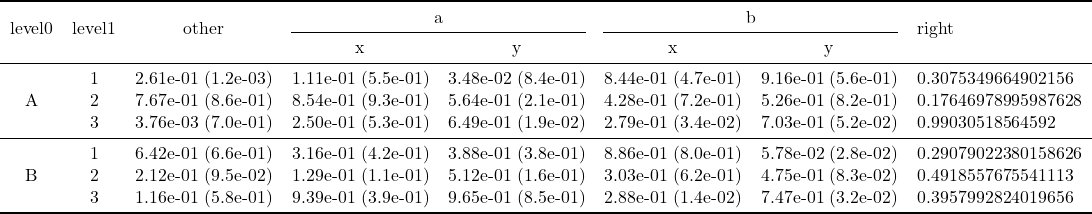
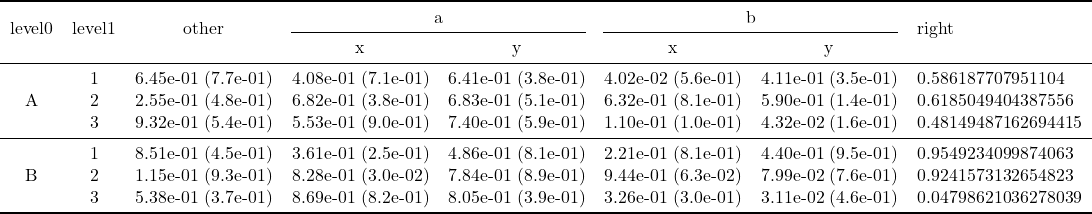
build based on 43f1c92

diff --git a/dev/index.html b/dev/index.html
@@ -1,2 +1,2 @@
 <!DOCTYPE html>
-<html lang="en"><head><meta charset="UTF-8"/><meta name="viewport" content="width=device-width, initial-scale=1.0"/><title>LaTeXTables.jl Documentation · LaTeXTables.jl Documentation</title><script data-outdated-warner src="assets/warner.js"></script><link href="https://cdnjs.cloudflare.com/ajax/libs/lato-font/3.0.0/css/lato-font.min.css" rel="stylesheet" type="text/css"/><link href="https://cdnjs.cloudflare.com/ajax/libs/juliamono/0.045/juliamono.min.css" rel="stylesheet" type="text/css"/><link href="https://cdnjs.cloudflare.com/ajax/libs/font-awesome/5.15.4/css/fontawesome.min.css" rel="stylesheet" type="text/css"/><link href="https://cdnjs.cloudflare.com/ajax/libs/font-awesome/5.15.4/css/solid.min.css" rel="stylesheet" type="text/css"/><link href="https://cdnjs.cloudflare.com/ajax/libs/font-awesome/5.15.4/css/brands.min.css" rel="stylesheet" type="text/css"/><link href="https://cdnjs.cloudflare.com/ajax/libs/KaTeX/0.13.24/katex.min.css" rel="stylesheet" type="text/css"/><script>documenterBaseURL="."</script><script src="https://cdnjs.cloudflare.com/ajax/libs/require.js/2.3.6/require.min.js" data-main="assets/documenter.js"></script><script src="siteinfo.js"></script><script src="../versions.js"></script><link class="docs-theme-link" rel="stylesheet" type="text/css" href="assets/themes/documenter-dark.css" data-theme-name="documenter-dark" data-theme-primary-dark/><link class="docs-theme-link" rel="stylesheet" type="text/css" href="assets/themes/documenter-light.css" data-theme-name="documenter-light" data-theme-primary/><script src="assets/themeswap.js"></script></head><body><div id="documenter"><nav class="docs-sidebar"><div class="docs-package-name"><span class="docs-autofit"><a href>LaTeXTables.jl Documentation</a></span></div><form class="docs-search" action="search/"><input class="docs-search-query" id="documenter-search-query" name="q" type="text" placeholder="Search docs"/></form><ul class="docs-menu"><li class="is-active"><a class="tocitem" href>LaTeXTables.jl Documentation</a><ul class="internal"><li><a class="tocitem" href="#Related-Packages"><span>Related Packages</span></a></li></ul></li><li><a class="tocitem" href="api/">API</a></li><li><a class="tocitem" href="example/">Examples</a></li></ul><div class="docs-version-selector field has-addons"><div class="control"><span class="docs-label button is-static is-size-7">Version</span></div><div class="docs-selector control is-expanded"><div class="select is-fullwidth is-size-7"><select id="documenter-version-selector"></select></div></div></div></nav><div class="docs-main"><header class="docs-navbar"><nav class="breadcrumb"><ul class="is-hidden-mobile"><li class="is-active"><a href>LaTeXTables.jl Documentation</a></li></ul><ul class="is-hidden-tablet"><li class="is-active"><a href>LaTeXTables.jl Documentation</a></li></ul></nav><div class="docs-right"><a class="docs-edit-link" href="https://github.com/szcf-weiya/LaTeXTables.jl/blob/master/docs/src/index.md" title="Edit on GitHub"><span class="docs-icon fab"></span><span class="docs-label is-hidden-touch">Edit on GitHub</span></a><a class="docs-settings-button fas fa-cog" id="documenter-settings-button" href="#" title="Settings"></a><a class="docs-sidebar-button fa fa-bars is-hidden-desktop" id="documenter-sidebar-button" href="#"></a></div></header><article class="content" id="documenter-page"><h1 id="LaTeXTables.jl-Documentation"><a class="docs-heading-anchor" href="#LaTeXTables.jl-Documentation">LaTeXTables.jl Documentation</a><a id="LaTeXTables.jl-Documentation-1"></a><a class="docs-heading-anchor-permalink" href="#LaTeXTables.jl-Documentation" title="Permalink"></a></h1><p>LaTeXTables.jl is a Julia package that coverts (complex) tables into LaTeX code.</p><h2 id="Related-Packages"><a class="docs-heading-anchor" href="#Related-Packages">Related Packages</a><a id="Related-Packages-1"></a><a class="docs-heading-anchor-permalink" href="#Related-Packages" title="Permalink"></a></h2><ul><li><a href="https://github.com/scheinerman/LatexPrint.jl">https://github.com/scheinerman/LatexPrint.jl</a>: only support basic data structure, such as 1d or 2d arrays</li><li><a href="https://github.com/ronisbr/PrettyTables.jl">https://github.com/ronisbr/PrettyTables.jl</a>: only support simple tables, i.e., one level row and one level column</li></ul></article><nav class="docs-footer"><a class="docs-footer-nextpage" href="api/">API »</a><div class="flexbox-break"></div><p class="footer-message">Powered by <a href="https://github.com/JuliaDocs/Documenter.jl">Documenter.jl</a> and the <a href="https://julialang.org/">Julia Programming Language</a>.</p></nav></div><div class="modal" id="documenter-settings"><div class="modal-background"></div><div class="modal-card"><header class="modal-card-head"><p class="modal-card-title">Settings</p><button class="delete"></button></header><section class="modal-card-body"><p><label class="label">Theme</label><div class="select"><select id="documenter-themepicker"><option value="documenter-light">documenter-light</option><option value="documenter-dark">documenter-dark</option></select></div></p><hr/><p>This document was generated with <a href="https://github.com/JuliaDocs/Documenter.jl">Documenter.jl</a> version 0.27.23 on <span class="colophon-date" title="Tuesday 15 November 2022 17:12">Tuesday 15 November 2022</span>. Using Julia version 1.7.3.</p></section><footer class="modal-card-foot"></footer></div></div></div></body></html>
+<html lang="en"><head><meta charset="UTF-8"/><meta name="viewport" content="width=device-width, initial-scale=1.0"/><title>LaTeXTables.jl Documentation · LaTeXTables.jl Documentation</title><script data-outdated-warner src="assets/warner.js"></script><link href="https://cdnjs.cloudflare.com/ajax/libs/lato-font/3.0.0/css/lato-font.min.css" rel="stylesheet" type="text/css"/><link href="https://cdnjs.cloudflare.com/ajax/libs/juliamono/0.045/juliamono.min.css" rel="stylesheet" type="text/css"/><link href="https://cdnjs.cloudflare.com/ajax/libs/font-awesome/5.15.4/css/fontawesome.min.css" rel="stylesheet" type="text/css"/><link href="https://cdnjs.cloudflare.com/ajax/libs/font-awesome/5.15.4/css/solid.min.css" rel="stylesheet" type="text/css"/><link href="https://cdnjs.cloudflare.com/ajax/libs/font-awesome/5.15.4/css/brands.min.css" rel="stylesheet" type="text/css"/><link href="https://cdnjs.cloudflare.com/ajax/libs/KaTeX/0.13.24/katex.min.css" rel="stylesheet" type="text/css"/><script>documenterBaseURL="."</script><script src="https://cdnjs.cloudflare.com/ajax/libs/require.js/2.3.6/require.min.js" data-main="assets/documenter.js"></script><script src="siteinfo.js"></script><script src="../versions.js"></script><link class="docs-theme-link" rel="stylesheet" type="text/css" href="assets/themes/documenter-dark.css" data-theme-name="documenter-dark" data-theme-primary-dark/><link class="docs-theme-link" rel="stylesheet" type="text/css" href="assets/themes/documenter-light.css" data-theme-name="documenter-light" data-theme-primary/><script src="assets/themeswap.js"></script></head><body><div id="documenter"><nav class="docs-sidebar"><div class="docs-package-name"><span class="docs-autofit"><a href>LaTeXTables.jl Documentation</a></span></div><form class="docs-search" action="search/"><input class="docs-search-query" id="documenter-search-query" name="q" type="text" placeholder="Search docs"/></form><ul class="docs-menu"><li class="is-active"><a class="tocitem" href>LaTeXTables.jl Documentation</a><ul class="internal"><li><a class="tocitem" href="#Related-Packages"><span>Related Packages</span></a></li></ul></li><li><a class="tocitem" href="api/">API</a></li><li><a class="tocitem" href="example/">Examples</a></li></ul><div class="docs-version-selector field has-addons"><div class="control"><span class="docs-label button is-static is-size-7">Version</span></div><div class="docs-selector control is-expanded"><div class="select is-fullwidth is-size-7"><select id="documenter-version-selector"></select></div></div></div></nav><div class="docs-main"><header class="docs-navbar"><nav class="breadcrumb"><ul class="is-hidden-mobile"><li class="is-active"><a href>LaTeXTables.jl Documentation</a></li></ul><ul class="is-hidden-tablet"><li class="is-active"><a href>LaTeXTables.jl Documentation</a></li></ul></nav><div class="docs-right"><a class="docs-edit-link" href="https://github.com/szcf-weiya/LaTeXTables.jl/blob/master/docs/src/index.md" title="Edit on GitHub"><span class="docs-icon fab"></span><span class="docs-label is-hidden-touch">Edit on GitHub</span></a><a class="docs-settings-button fas fa-cog" id="documenter-settings-button" href="#" title="Settings"></a><a class="docs-sidebar-button fa fa-bars is-hidden-desktop" id="documenter-sidebar-button" href="#"></a></div></header><article class="content" id="documenter-page"><h1 id="LaTeXTables.jl-Documentation"><a class="docs-heading-anchor" href="#LaTeXTables.jl-Documentation">LaTeXTables.jl Documentation</a><a id="LaTeXTables.jl-Documentation-1"></a><a class="docs-heading-anchor-permalink" href="#LaTeXTables.jl-Documentation" title="Permalink"></a></h1><p>LaTeXTables.jl is a Julia package that coverts (complex) tables into LaTeX code.</p><h2 id="Related-Packages"><a class="docs-heading-anchor" href="#Related-Packages">Related Packages</a><a id="Related-Packages-1"></a><a class="docs-heading-anchor-permalink" href="#Related-Packages" title="Permalink"></a></h2><ul><li><a href="https://github.com/scheinerman/LatexPrint.jl">https://github.com/scheinerman/LatexPrint.jl</a>: only support basic data structure, such as 1d or 2d arrays</li><li><a href="https://github.com/ronisbr/PrettyTables.jl">https://github.com/ronisbr/PrettyTables.jl</a>: only support simple tables, i.e., one level row and one level column</li></ul></article><nav class="docs-footer"><a class="docs-footer-nextpage" href="api/">API »</a><div class="flexbox-break"></div><p class="footer-message">Powered by <a href="https://github.com/JuliaDocs/Documenter.jl">Documenter.jl</a> and the <a href="https://julialang.org/">Julia Programming Language</a>.</p></nav></div><div class="modal" id="documenter-settings"><div class="modal-background"></div><div class="modal-card"><header class="modal-card-head"><p class="modal-card-title">Settings</p><button class="delete"></button></header><section class="modal-card-body"><p><label class="label">Theme</label><div class="select"><select id="documenter-themepicker"><option value="documenter-light">documenter-light</option><option value="documenter-dark">documenter-dark</option></select></div></p><hr/><p>This document was generated with <a href="https://github.com/JuliaDocs/Documenter.jl">Documenter.jl</a> version 0.27.23 on <span class="colophon-date" title="Tuesday 15 November 2022 17:33">Tuesday 15 November 2022</span>. Using Julia version 1.7.3.</p></section><footer class="modal-card-foot"></footer></div></div></div></body></html>

diff --git a/dev/search/index.html b/dev/search/index.html
@@ -1,2 +1,2 @@
 <!DOCTYPE html>
-<html lang="en"><head><meta charset="UTF-8"/><meta name="viewport" content="width=device-width, initial-scale=1.0"/><title>Search · LaTeXTables.jl Documentation</title><script data-outdated-warner src="../assets/warner.js"></script><link href="https://cdnjs.cloudflare.com/ajax/libs/lato-font/3.0.0/css/lato-font.min.css" rel="stylesheet" type="text/css"/><link href="https://cdnjs.cloudflare.com/ajax/libs/juliamono/0.045/juliamono.min.css" rel="stylesheet" type="text/css"/><link href="https://cdnjs.cloudflare.com/ajax/libs/font-awesome/5.15.4/css/fontawesome.min.css" rel="stylesheet" type="text/css"/><link href="https://cdnjs.cloudflare.com/ajax/libs/font-awesome/5.15.4/css/solid.min.css" rel="stylesheet" type="text/css"/><link href="https://cdnjs.cloudflare.com/ajax/libs/font-awesome/5.15.4/css/brands.min.css" rel="stylesheet" type="text/css"/><link href="https://cdnjs.cloudflare.com/ajax/libs/KaTeX/0.13.24/katex.min.css" rel="stylesheet" type="text/css"/><script>documenterBaseURL=".."</script><script src="https://cdnjs.cloudflare.com/ajax/libs/require.js/2.3.6/require.min.js" data-main="../assets/documenter.js"></script><script src="../siteinfo.js"></script><script src="../../versions.js"></script><link class="docs-theme-link" rel="stylesheet" type="text/css" href="../assets/themes/documenter-dark.css" data-theme-name="documenter-dark" data-theme-primary-dark/><link class="docs-theme-link" rel="stylesheet" type="text/css" href="../assets/themes/documenter-light.css" data-theme-name="documenter-light" data-theme-primary/><script src="../assets/themeswap.js"></script></head><body><div id="documenter"><nav class="docs-sidebar"><div class="docs-package-name"><span class="docs-autofit"><a href="../">LaTeXTables.jl Documentation</a></span></div><form class="docs-search" action><input class="docs-search-query" id="documenter-search-query" name="q" type="text" placeholder="Search docs"/></form><ul class="docs-menu"><li><a class="tocitem" href="../">LaTeXTables.jl Documentation</a></li><li><a class="tocitem" href="../api/">API</a></li><li><a class="tocitem" href="../example/">Examples</a></li></ul><div class="docs-version-selector field has-addons"><div class="control"><span class="docs-label button is-static is-size-7">Version</span></div><div class="docs-selector control is-expanded"><div class="select is-fullwidth is-size-7"><select id="documenter-version-selector"></select></div></div></div></nav><div class="docs-main"><header class="docs-navbar"><nav class="breadcrumb"><ul class="is-hidden-mobile"><li class="is-active"><a href>Search</a></li></ul><ul class="is-hidden-tablet"><li class="is-active"><a href>Search</a></li></ul></nav><div class="docs-right"><a class="docs-settings-button fas fa-cog" id="documenter-settings-button" href="#" title="Settings"></a><a class="docs-sidebar-button fa fa-bars is-hidden-desktop" id="documenter-sidebar-button" href="#"></a></div></header><article><p id="documenter-search-info">Loading search...</p><ul id="documenter-search-results"></ul></article><nav class="docs-footer"><p class="footer-message">Powered by <a href="https://github.com/JuliaDocs/Documenter.jl">Documenter.jl</a> and the <a href="https://julialang.org/">Julia Programming Language</a>.</p></nav></div><div class="modal" id="documenter-settings"><div class="modal-background"></div><div class="modal-card"><header class="modal-card-head"><p class="modal-card-title">Settings</p><button class="delete"></button></header><section class="modal-card-body"><p><label class="label">Theme</label><div class="select"><select id="documenter-themepicker"><option value="documenter-light">documenter-light</option><option value="documenter-dark">documenter-dark</option></select></div></p><hr/><p>This document was generated with <a href="https://github.com/JuliaDocs/Documenter.jl">Documenter.jl</a> version 0.27.23 on <span class="colophon-date" title="Tuesday 15 November 2022 17:12">Tuesday 15 November 2022</span>. Using Julia version 1.7.3.</p></section><footer class="modal-card-foot"></footer></div></div></div></body><script src="../search_index.js"></script><script src="../assets/search.js"></script></html>
+<html lang="en"><head><meta charset="UTF-8"/><meta name="viewport" content="width=device-width, initial-scale=1.0"/><title>Search · LaTeXTables.jl Documentation</title><script data-outdated-warner src="../assets/warner.js"></script><link href="https://cdnjs.cloudflare.com/ajax/libs/lato-font/3.0.0/css/lato-font.min.css" rel="stylesheet" type="text/css"/><link href="https://cdnjs.cloudflare.com/ajax/libs/juliamono/0.045/juliamono.min.css" rel="stylesheet" type="text/css"/><link href="https://cdnjs.cloudflare.com/ajax/libs/font-awesome/5.15.4/css/fontawesome.min.css" rel="stylesheet" type="text/css"/><link href="https://cdnjs.cloudflare.com/ajax/libs/font-awesome/5.15.4/css/solid.min.css" rel="stylesheet" type="text/css"/><link href="https://cdnjs.cloudflare.com/ajax/libs/font-awesome/5.15.4/css/brands.min.css" rel="stylesheet" type="text/css"/><link href="https://cdnjs.cloudflare.com/ajax/libs/KaTeX/0.13.24/katex.min.css" rel="stylesheet" type="text/css"/><script>documenterBaseURL=".."</script><script src="https://cdnjs.cloudflare.com/ajax/libs/require.js/2.3.6/require.min.js" data-main="../assets/documenter.js"></script><script src="../siteinfo.js"></script><script src="../../versions.js"></script><link class="docs-theme-link" rel="stylesheet" type="text/css" href="../assets/themes/documenter-dark.css" data-theme-name="documenter-dark" data-theme-primary-dark/><link class="docs-theme-link" rel="stylesheet" type="text/css" href="../assets/themes/documenter-light.css" data-theme-name="documenter-light" data-theme-primary/><script src="../assets/themeswap.js"></script></head><body><div id="documenter"><nav class="docs-sidebar"><div class="docs-package-name"><span class="docs-autofit"><a href="../">LaTeXTables.jl Documentation</a></span></div><form class="docs-search" action><input class="docs-search-query" id="documenter-search-query" name="q" type="text" placeholder="Search docs"/></form><ul class="docs-menu"><li><a class="tocitem" href="../">LaTeXTables.jl Documentation</a></li><li><a class="tocitem" href="../api/">API</a></li><li><a class="tocitem" href="../example/">Examples</a></li></ul><div class="docs-version-selector field has-addons"><div class="control"><span class="docs-label button is-static is-size-7">Version</span></div><div class="docs-selector control is-expanded"><div class="select is-fullwidth is-size-7"><select id="documenter-version-selector"></select></div></div></div></nav><div class="docs-main"><header class="docs-navbar"><nav class="breadcrumb"><ul class="is-hidden-mobile"><li class="is-active"><a href>Search</a></li></ul><ul class="is-hidden-tablet"><li class="is-active"><a href>Search</a></li></ul></nav><div class="docs-right"><a class="docs-settings-button fas fa-cog" id="documenter-settings-button" href="#" title="Settings"></a><a class="docs-sidebar-button fa fa-bars is-hidden-desktop" id="documenter-sidebar-button" href="#"></a></div></header><article><p id="documenter-search-info">Loading search...</p><ul id="documenter-search-results"></ul></article><nav class="docs-footer"><p class="footer-message">Powered by <a href="https://github.com/JuliaDocs/Documenter.jl">Documenter.jl</a> and the <a href="https://julialang.org/">Julia Programming Language</a>.</p></nav></div><div class="modal" id="documenter-settings"><div class="modal-background"></div><div class="modal-card"><header class="modal-card-head"><p class="modal-card-title">Settings</p><button class="delete"></button></header><section class="modal-card-body"><p><label class="label">Theme</label><div class="select"><select id="documenter-themepicker"><option value="documenter-light">documenter-light</option><option value="documenter-dark">documenter-dark</option></select></div></p><hr/><p>This document was generated with <a href="https://github.com/JuliaDocs/Documenter.jl">Documenter.jl</a> version 0.27.23 on <span class="colophon-date" title="Tuesday 15 November 2022 17:33">Tuesday 15 November 2022</span>. Using Julia version 1.7.3.</p></section><footer class="modal-card-foot"></footer></div></div></div></body><script src="../search_index.js"></script><script src="../assets/search.js"></script></html>

diff --git a/dev/api/index.html b/dev/api/index.html
@@ -13,4 +13,4 @@ julia&gt; print2tex(μ, σ, [&quot;A&quot;, &quot;B&quot;], [&quot;a&quot;, &quo
 noc = 0
 14
 
-julia&gt; tex2png(&quot;ex1.tex&quot;)</code></pre></div><a class="docs-sourcelink" target="_blank" href="https://github.com/szcf-weiya/LaTeXTables.jl/blob/8206c7d5d2b85aef02d7b4e61b407860fa8eb16d/src/tab2tex.jl#L7-L33">source</a></section></article><article class="docstring"><header><a class="docstring-binding" id="LaTeXTables.tex2png" href="#LaTeXTables.tex2png"><code>LaTeXTables.tex2png</code></a> — <span class="docstring-category">Function</span></header><section><div><pre><code class="language-julia hljs">tex2png()</code></pre><p>Render a latex table source file into an image via https://quicklatex.com/js/quicklatex.js</p></div><a class="docs-sourcelink" target="_blank" href="https://github.com/szcf-weiya/LaTeXTables.jl/blob/8206c7d5d2b85aef02d7b4e61b407860fa8eb16d/src/render.jl#L2-L6">source</a></section></article></article><nav class="docs-footer"><a class="docs-footer-prevpage" href="../">« LaTeXTables.jl Documentation</a><a class="docs-footer-nextpage" href="../example/">Examples »</a><div class="flexbox-break"></div><p class="footer-message">Powered by <a href="https://github.com/JuliaDocs/Documenter.jl">Documenter.jl</a> and the <a href="https://julialang.org/">Julia Programming Language</a>.</p></nav></div><div class="modal" id="documenter-settings"><div class="modal-background"></div><div class="modal-card"><header class="modal-card-head"><p class="modal-card-title">Settings</p><button class="delete"></button></header><section class="modal-card-body"><p><label class="label">Theme</label><div class="select"><select id="documenter-themepicker"><option value="documenter-light">documenter-light</option><option value="documenter-dark">documenter-dark</option></select></div></p><hr/><p>This document was generated with <a href="https://github.com/JuliaDocs/Documenter.jl">Documenter.jl</a> version 0.27.23 on <span class="colophon-date" title="Tuesday 15 November 2022 17:12">Tuesday 15 November 2022</span>. Using Julia version 1.7.3.</p></section><footer class="modal-card-foot"></footer></div></div></div></body></html>
+julia&gt; tex2png(&quot;ex1.tex&quot;)</code></pre></div><a class="docs-sourcelink" target="_blank" href="https://github.com/szcf-weiya/LaTeXTables.jl/blob/43f1c92af5bedad8456866ead7d7b9ca06e3970a/src/tab2tex.jl#L7-L33">source</a></section></article><article class="docstring"><header><a class="docstring-binding" id="LaTeXTables.tex2png" href="#LaTeXTables.tex2png"><code>LaTeXTables.tex2png</code></a> — <span class="docstring-category">Function</span></header><section><div><pre><code class="language-julia hljs">tex2png()</code></pre><p>Render a latex table source file into an image via https://quicklatex.com/js/quicklatex.js</p></div><a class="docs-sourcelink" target="_blank" href="https://github.com/szcf-weiya/LaTeXTables.jl/blob/43f1c92af5bedad8456866ead7d7b9ca06e3970a/src/render.jl#L2-L6">source</a></section></article></article><nav class="docs-footer"><a class="docs-footer-prevpage" href="../">« LaTeXTables.jl Documentation</a><a class="docs-footer-nextpage" href="../example/">Examples »</a><div class="flexbox-break"></div><p class="footer-message">Powered by <a href="https://github.com/JuliaDocs/Documenter.jl">Documenter.jl</a> and the <a href="https://julialang.org/">Julia Programming Language</a>.</p></nav></div><div class="modal" id="documenter-settings"><div class="modal-background"></div><div class="modal-card"><header class="modal-card-head"><p class="modal-card-title">Settings</p><button class="delete"></button></header><section class="modal-card-body"><p><label class="label">Theme</label><div class="select"><select id="documenter-themepicker"><option value="documenter-light">documenter-light</option><option value="documenter-dark">documenter-dark</option></select></div></p><hr/><p>This document was generated with <a href="https://github.com/JuliaDocs/Documenter.jl">Documenter.jl</a> version 0.27.23 on <span class="colophon-date" title="Tuesday 15 November 2022 17:33">Tuesday 15 November 2022</span>. Using Julia version 1.7.3.</p></section><footer class="modal-card-foot"></footer></div></div></div></body></html>

diff --git a/dev/example/index.html b/dev/example/index.html
@@ -29,4 +29,4 @@ others_σ = [rand(3, 1), rand(3, 1)]
 print2tex(μ, σ, [&quot;A&quot;, &quot;B&quot;], [&quot;a&quot;, &quot;b&quot;], [&quot;1&quot;,&quot;2&quot;,&quot;3&quot;], [&quot;x&quot;, &quot;y&quot;], file = &quot;ex2.tex&quot;, other_cols = others, other_col_names = [&quot;other&quot;], other_cols_σ = others_σ)
 tex2png(&quot;ex2.tex&quot;)</code></pre><pre class="documenter-example-output"><code class="nohighlight hljs ansi">&quot;ex2.png&quot;</code></pre><p><img src="../ex2.png" alt/></p><h3 id="Add-columns-on-the-right"><a class="docs-heading-anchor" href="#Add-columns-on-the-right">Add columns on the right</a><a id="Add-columns-on-the-right-1"></a><a class="docs-heading-anchor-permalink" href="#Add-columns-on-the-right" title="Permalink"></a></h3><pre><code class="language-julia hljs">right = [[rand(3), rand(3)]]
 print2tex(μ, σ, [&quot;A&quot;, &quot;B&quot;], [&quot;a&quot;, &quot;b&quot;], [&quot;1&quot;,&quot;2&quot;,&quot;3&quot;], [&quot;x&quot;, &quot;y&quot;], file = &quot;ex3.tex&quot;, other_cols = others, other_col_names = [&quot;other&quot;], other_cols_σ = others_σ, right_cols = right, right_col_names = [&quot;right&quot;])
-tex2png(&quot;ex3.tex&quot;)</code></pre><pre class="documenter-example-output"><code class="nohighlight hljs ansi">&quot;ex3.png&quot;</code></pre><p><img src="../ex3.png" alt/></p></article><nav class="docs-footer"><a class="docs-footer-prevpage" href="../api/">« API</a><div class="flexbox-break"></div><p class="footer-message">Powered by <a href="https://github.com/JuliaDocs/Documenter.jl">Documenter.jl</a> and the <a href="https://julialang.org/">Julia Programming Language</a>.</p></nav></div><div class="modal" id="documenter-settings"><div class="modal-background"></div><div class="modal-card"><header class="modal-card-head"><p class="modal-card-title">Settings</p><button class="delete"></button></header><section class="modal-card-body"><p><label class="label">Theme</label><div class="select"><select id="documenter-themepicker"><option value="documenter-light">documenter-light</option><option value="documenter-dark">documenter-dark</option></select></div></p><hr/><p>This document was generated with <a href="https://github.com/JuliaDocs/Documenter.jl">Documenter.jl</a> version 0.27.23 on <span class="colophon-date" title="Tuesday 15 November 2022 17:12">Tuesday 15 November 2022</span>. Using Julia version 1.7.3.</p></section><footer class="modal-card-foot"></footer></div></div></div></body></html>
+tex2png(&quot;ex3.tex&quot;)</code></pre><pre class="documenter-example-output"><code class="nohighlight hljs ansi">&quot;ex3.png&quot;</code></pre><p><img src="../ex3.png" alt/></p></article><nav class="docs-footer"><a class="docs-footer-prevpage" href="../api/">« API</a><div class="flexbox-break"></div><p class="footer-message">Powered by <a href="https://github.com/JuliaDocs/Documenter.jl">Documenter.jl</a> and the <a href="https://julialang.org/">Julia Programming Language</a>.</p></nav></div><div class="modal" id="documenter-settings"><div class="modal-background"></div><div class="modal-card"><header class="modal-card-head"><p class="modal-card-title">Settings</p><button class="delete"></button></header><section class="modal-card-body"><p><label class="label">Theme</label><div class="select"><select id="documenter-themepicker"><option value="documenter-light">documenter-light</option><option value="documenter-dark">documenter-dark</option></select></div></p><hr/><p>This document was generated with <a href="https://github.com/JuliaDocs/Documenter.jl">Documenter.jl</a> version 0.27.23 on <span class="colophon-date" title="Tuesday 15 November 2022 17:33">Tuesday 15 November 2022</span>. Using Julia version 1.7.3.</p></section><footer class="modal-card-foot"></footer></div></div></div></body></html>

diff --git a/dev/ex3.tex b/dev/ex3.tex
@@ -5,12 +5,12 @@
 \cmidrule(lr){6-7}
 &&&x&y&x&y\tabularnewline
 \midrule
-\multirow{3}{*}{A}&1& 2.61e-01 (1.2e-03)& 1.11e-01 (5.5e-01)& 3.48e-02 (8.4e-01)& 8.44e-01 (4.7e-01)& 9.16e-01 (5.6e-01)& 0.3075349664902156\tabularnewline
-&2& 7.67e-01 (8.6e-01)& 8.54e-01 (9.3e-01)& 5.64e-01 (2.1e-01)& 4.28e-01 (7.2e-01)& 5.26e-01 (8.2e-01)& 0.17646978995987628\tabularnewline
-&3& 3.76e-03 (7.0e-01)& 2.50e-01 (5.3e-01)& 6.49e-01 (1.9e-02)& 2.79e-01 (3.4e-02)& 7.03e-01 (5.2e-02)& 0.99030518564592\tabularnewline
+\multirow{3}{*}{A}&1& 6.45e-01 (7.7e-01)& 4.08e-01 (7.1e-01)& 6.41e-01 (3.8e-01)& 4.02e-02 (5.6e-01)& 4.11e-01 (3.5e-01)& 0.586187707951104\tabularnewline
+&2& 2.55e-01 (4.8e-01)& 6.82e-01 (3.8e-01)& 6.83e-01 (5.1e-01)& 6.32e-01 (8.1e-01)& 5.90e-01 (1.4e-01)& 0.6185049404387556\tabularnewline
+&3& 9.32e-01 (5.4e-01)& 5.53e-01 (9.0e-01)& 7.40e-01 (5.9e-01)& 1.10e-01 (1.0e-01)& 4.32e-02 (1.6e-01)& 0.48149487162694415\tabularnewline
 \midrule
-\multirow{3}{*}{B}&1& 6.42e-01 (6.6e-01)& 3.16e-01 (4.2e-01)& 3.88e-01 (3.8e-01)& 8.86e-01 (8.0e-01)& 5.78e-02 (2.8e-02)& 0.29079022380158626\tabularnewline
-&2& 2.12e-01 (9.5e-02)& 1.29e-01 (1.1e-01)& 5.12e-01 (1.6e-01)& 3.03e-01 (6.2e-01)& 4.75e-01 (8.3e-02)& 0.4918557675541113\tabularnewline
-&3& 1.16e-01 (5.8e-01)& 9.39e-01 (3.9e-01)& 9.65e-01 (8.5e-01)& 2.88e-01 (1.4e-02)& 7.47e-01 (3.2e-02)& 0.3957992824019656\tabularnewline
+\multirow{3}{*}{B}&1& 8.51e-01 (4.5e-01)& 3.61e-01 (2.5e-01)& 4.86e-01 (8.1e-01)& 2.21e-01 (8.1e-01)& 4.40e-01 (9.5e-01)& 0.9549234099874063\tabularnewline
+&2& 1.15e-01 (9.3e-01)& 8.28e-01 (3.0e-02)& 7.84e-01 (8.9e-01)& 9.44e-01 (6.3e-02)& 7.99e-02 (7.6e-01)& 0.9241573132654823\tabularnewline
+&3& 5.38e-01 (3.7e-01)& 8.69e-01 (8.2e-01)& 8.05e-01 (3.9e-01)& 3.26e-01 (3.0e-01)& 3.11e-02 (4.6e-01)& 0.04798621036278039\tabularnewline
 \bottomrule
 \end{tabular}

diff --git a/dev/ex2.tex b/dev/ex2.tex
@@ -5,12 +5,12 @@
 \cmidrule(lr){6-7}
 &&&x&y&x&y\tabularnewline
 \midrule
-\multirow{3}{*}{A}&1& 2.61e-01 (1.2e-03)& 1.11e-01 (5.5e-01)& 3.48e-02 (8.4e-01)& 8.44e-01 (4.7e-01)& 9.16e-01 (5.6e-01)\tabularnewline
-&2& 7.67e-01 (8.6e-01)& 8.54e-01 (9.3e-01)& 5.64e-01 (2.1e-01)& 4.28e-01 (7.2e-01)& 5.26e-01 (8.2e-01)\tabularnewline
-&3& 3.76e-03 (7.0e-01)& 2.50e-01 (5.3e-01)& 6.49e-01 (1.9e-02)& 2.79e-01 (3.4e-02)& 7.03e-01 (5.2e-02)\tabularnewline
+\multirow{3}{*}{A}&1& 6.45e-01 (7.7e-01)& 4.08e-01 (7.1e-01)& 6.41e-01 (3.8e-01)& 4.02e-02 (5.6e-01)& 4.11e-01 (3.5e-01)\tabularnewline
+&2& 2.55e-01 (4.8e-01)& 6.82e-01 (3.8e-01)& 6.83e-01 (5.1e-01)& 6.32e-01 (8.1e-01)& 5.90e-01 (1.4e-01)\tabularnewline
+&3& 9.32e-01 (5.4e-01)& 5.53e-01 (9.0e-01)& 7.40e-01 (5.9e-01)& 1.10e-01 (1.0e-01)& 4.32e-02 (1.6e-01)\tabularnewline
 \midrule
-\multirow{3}{*}{B}&1& 6.42e-01 (6.6e-01)& 3.16e-01 (4.2e-01)& 3.88e-01 (3.8e-01)& 8.86e-01 (8.0e-01)& 5.78e-02 (2.8e-02)\tabularnewline
-&2& 2.12e-01 (9.5e-02)& 1.29e-01 (1.1e-01)& 5.12e-01 (1.6e-01)& 3.03e-01 (6.2e-01)& 4.75e-01 (8.3e-02)\tabularnewline
-&3& 1.16e-01 (5.8e-01)& 9.39e-01 (3.9e-01)& 9.65e-01 (8.5e-01)& 2.88e-01 (1.4e-02)& 7.47e-01 (3.2e-02)\tabularnewline
+\multirow{3}{*}{B}&1& 8.51e-01 (4.5e-01)& 3.61e-01 (2.5e-01)& 4.86e-01 (8.1e-01)& 2.21e-01 (8.1e-01)& 4.40e-01 (9.5e-01)\tabularnewline
+&2& 1.15e-01 (9.3e-01)& 8.28e-01 (3.0e-02)& 7.84e-01 (8.9e-01)& 9.44e-01 (6.3e-02)& 7.99e-02 (7.6e-01)\tabularnewline
+&3& 5.38e-01 (3.7e-01)& 8.69e-01 (8.2e-01)& 8.05e-01 (3.9e-01)& 3.26e-01 (3.0e-01)& 3.11e-02 (4.6e-01)\tabularnewline
 \bottomrule
 \end{tabular}

diff --git a/dev/ex1.tex b/dev/ex1.tex
@@ -5,12 +5,12 @@
 \cmidrule(lr){5-6}
 &&x&y&x&y\tabularnewline
 \midrule
-\multirow{3}{*}{A}&1& 1.11e-01 (5.5e-01)& 3.48e-02 (8.4e-01)& 8.44e-01 (4.7e-01)& 9.16e-01 (5.6e-01)\tabularnewline
-&2& 8.54e-01 (9.3e-01)& 5.64e-01 (2.1e-01)& 4.28e-01 (7.2e-01)& 5.26e-01 (8.2e-01)\tabularnewline
-&3& 2.50e-01 (5.3e-01)& 6.49e-01 (1.9e-02)& 2.79e-01 (3.4e-02)& 7.03e-01 (5.2e-02)\tabularnewline
+\multirow{3}{*}{A}&1& 4.08e-01 (7.1e-01)& 6.41e-01 (3.8e-01)& 4.02e-02 (5.6e-01)& 4.11e-01 (3.5e-01)\tabularnewline
+&2& 6.82e-01 (3.8e-01)& 6.83e-01 (5.1e-01)& 6.32e-01 (8.1e-01)& 5.90e-01 (1.4e-01)\tabularnewline
+&3& 5.53e-01 (9.0e-01)& 7.40e-01 (5.9e-01)& 1.10e-01 (1.0e-01)& 4.32e-02 (1.6e-01)\tabularnewline
 \midrule
-\multirow{3}{*}{B}&1& 3.16e-01 (4.2e-01)& 3.88e-01 (3.8e-01)& 8.86e-01 (8.0e-01)& 5.78e-02 (2.8e-02)\tabularnewline
-&2& 1.29e-01 (1.1e-01)& 5.12e-01 (1.6e-01)& 3.03e-01 (6.2e-01)& 4.75e-01 (8.3e-02)\tabularnewline
-&3& 9.39e-01 (3.9e-01)& 9.65e-01 (8.5e-01)& 2.88e-01 (1.4e-02)& 7.47e-01 (3.2e-02)\tabularnewline
+\multirow{3}{*}{B}&1& 3.61e-01 (2.5e-01)& 4.86e-01 (8.1e-01)& 2.21e-01 (8.1e-01)& 4.40e-01 (9.5e-01)\tabularnewline
+&2& 8.28e-01 (3.0e-02)& 7.84e-01 (8.9e-01)& 9.44e-01 (6.3e-02)& 7.99e-02 (7.6e-01)\tabularnewline
+&3& 8.69e-01 (8.2e-01)& 8.05e-01 (3.9e-01)& 3.26e-01 (3.0e-01)& 3.11e-02 (4.6e-01)\tabularnewline
 \bottomrule
 \end{tabular}

diff --git a/dev/row2col2.tex b/dev/row2col2.tex
@@ -6,10 +6,10 @@
 &&c1&c2&c3&c1&c2&c3\tabularnewline
 \midrule
 \midrule
-\multirow{2}{*}{r01}&r1&9.90e-01& (2.71e-02, -6.04e-01)& (9.60e-01, -3.05e-02)&9.90e-01& (2.71e-02, -6.04e-01)& (9.60e-01, -3.05e-02)\tabularnewline
-&r2&1.78e-01& (-1.60e+00, -1.99e-01)& (1.82e-01, 1.33e+00)&1.78e-01& (-1.60e+00, -1.99e-01)& (1.82e-01, 1.33e+00)\tabularnewline
+\multirow{2}{*}{r01}&r1&-8.68e-02& (2.17e+00, 3.65e-01)& (-4.91e-01, 6.12e-01)&-8.68e-02& (2.17e+00, 3.65e-01)& (-4.91e-01, 6.12e-01)\tabularnewline
+&r2&-6.53e-01& (4.44e-01, 6.76e-01)& (-2.42e-01, -5.04e-01)&-6.53e-01& (4.44e-01, 6.76e-01)& (-2.42e-01, -5.04e-01)\tabularnewline
 \midrule
-\multirow{2}{*}{r02}&r1&9.90e-01& (2.71e-02, -6.04e-01)& (9.60e-01, -3.05e-02)&9.90e-01& (2.71e-02, -6.04e-01)& (9.60e-01, -3.05e-02)\tabularnewline
-&r2&1.78e-01& (-1.60e+00, -1.99e-01)& (1.82e-01, 1.33e+00)&1.78e-01& (-1.60e+00, -1.99e-01)& (1.82e-01, 1.33e+00)\tabularnewline
+\multirow{2}{*}{r02}&r1&-8.68e-02& (2.17e+00, 3.65e-01)& (-4.91e-01, 6.12e-01)&-8.68e-02& (2.17e+00, 3.65e-01)& (-4.91e-01, 6.12e-01)\tabularnewline
+&r2&-6.53e-01& (4.44e-01, 6.76e-01)& (-2.42e-01, -5.04e-01)&-6.53e-01& (4.44e-01, 6.76e-01)& (-2.42e-01, -5.04e-01)\tabularnewline
 \bottomrule
 \end{tabular}

diff --git a/dev/ex02.tex b/dev/ex02.tex
@@ -2,12 +2,12 @@
 \toprule
 row&col1&col2&col3\tabularnewline
 \midrule
-A&-8.36e-01& (-3.06e-01, -4.22e-01)& (-1.43e+00, -1.89e+00)\tabularnewline
-B&2.10e+00& (7.73e-01, 6.25e-01)& (-1.13e-01, 9.33e-02)\tabularnewline
+A&1.62e+00& (2.67e-02, 2.71e-02)& (2.65e-01, 2.47e-01)\tabularnewline
+B&-1.08e+00& (-1.57e+00, -7.13e-01)& (-6.84e-01, -1.77e+00)\tabularnewline
 \midrule
 &COL1&col2&col3\tabularnewline
 \midrule
-A&-8.36e-01& (-3.06e-01, -4.22e-01)& (-1.43e+00, -1.89e+00)\tabularnewline
-B&2.10e+00& (7.73e-01, 6.25e-01)& (-1.13e-01, 9.33e-02)\tabularnewline
+A&1.62e+00& (2.67e-02, 2.71e-02)& (2.65e-01, 2.47e-01)\tabularnewline
+B&-1.08e+00& (-1.57e+00, -7.13e-01)& (-6.84e-01, -1.77e+00)\tabularnewline
 \bottomrule
 \end{tabular}

diff --git a/dev/col2.tex b/dev/col2.tex
@@ -5,7 +5,7 @@
 \cmidrule(lr){5-7}
 &c1&c2&c3&c1&c2&c3\tabularnewline
 \midrule
-r1&-3.86e-01& (-4.84e-01, -9.47e-01)& (1.03e+00, 3.64e-02)&-3.86e-01& (-4.84e-01, -9.47e-01)& (1.03e+00, 3.64e-02)\tabularnewline
-r2&2.42e+00& (3.08e-01, 2.44e-01)& (3.99e-01, -1.85e+00)&2.42e+00& (3.08e-01, 2.44e-01)& (3.99e-01, -1.85e+00)\tabularnewline
+r1&-2.28e-01& (-3.51e-01, -1.10e-02)& (-7.08e-01, -7.76e-01)&-2.28e-01& (-3.51e-01, -1.10e-02)& (-7.08e-01, -7.76e-01)\tabularnewline
+r2&-1.07e-01& (-3.03e-01, 2.27e-01)& (3.19e-02, -1.50e+00)&-1.07e-01& (-3.03e-01, 2.27e-01)& (3.19e-02, -1.50e+00)\tabularnewline
 \bottomrule
 \end{tabular}

diff --git a/dev/ex01.tex b/dev/ex01.tex
@@ -2,7 +2,7 @@
 \toprule
 row&col1&col2&col3\tabularnewline
 \midrule
-A&-2.33e-01& (-1.54e+00, -2.19e-01)& (5.68e-01, 3.81e-01)\tabularnewline
-B&4.12e-01& (6.44e-01, -1.79e+00)& (3.77e-01, -3.26e+00)\tabularnewline
+A&-2.77e-01& (1.05e+00, -1.54e+00)& (-6.93e-01, 5.48e-02)\tabularnewline
+B&-2.47e-01& (1.26e+00, 1.65e-01)& (9.34e-01, -2.36e-01)\tabularnewline
 \bottomrule
 \end{tabular}

diff --git a/dev/ex0.tex b/dev/ex0.tex
@@ -2,7 +2,7 @@
 \toprule
 row&col1&col2&col3\tabularnewline
 \midrule
-A&6.53e-01&5.48e-01&5.79e-01\tabularnewline
-B&6.70e-01&4.33e-01&7.17e-01\tabularnewline
+A&9.58e-01&6.24e-01&5.24e-01\tabularnewline
+B&2.02e-01&7.91e-01&7.06e-01\tabularnewline
 \bottomrule
 \end{tabular}
